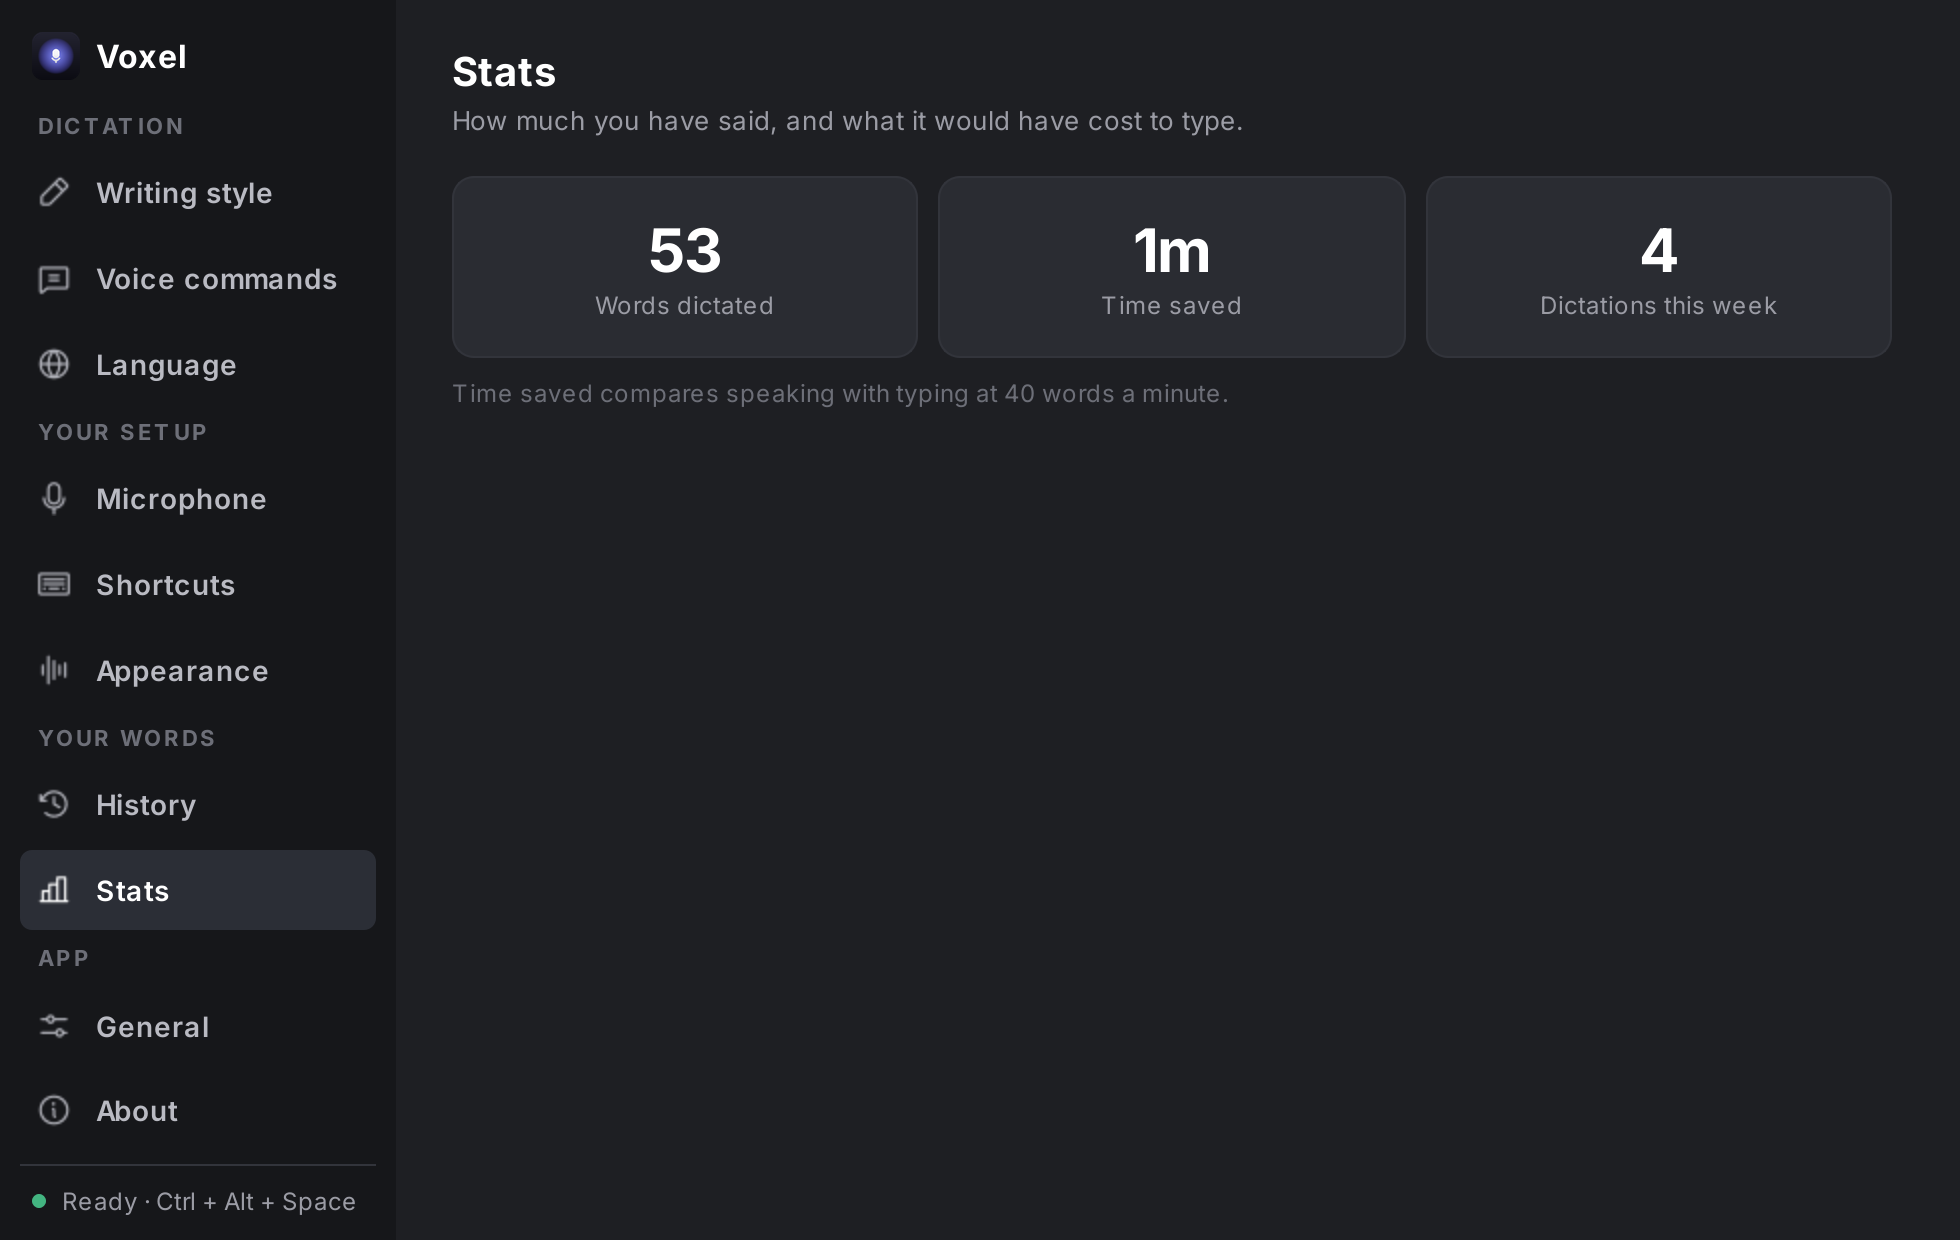
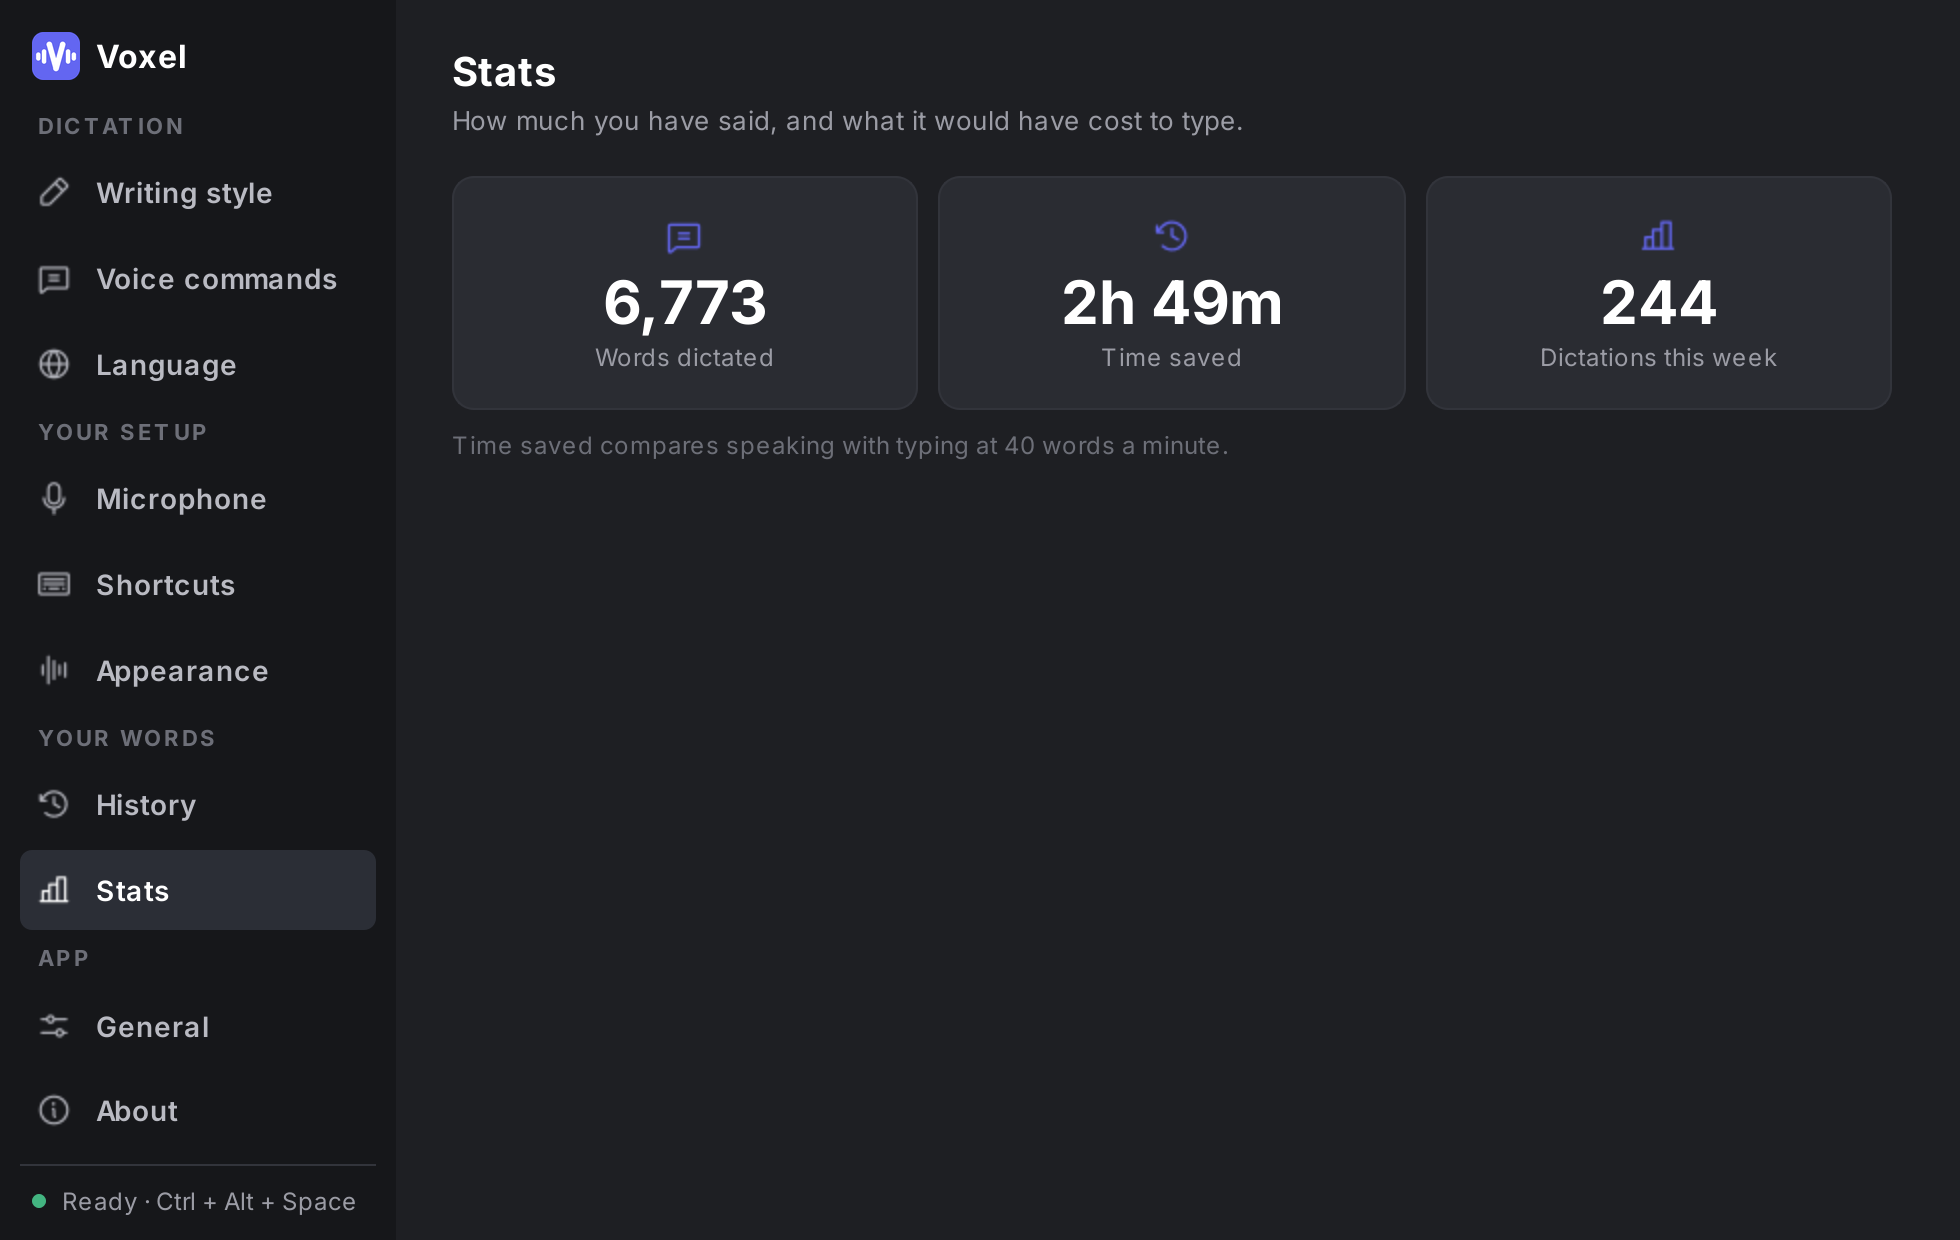
docs: refresh the screenshots and describe the two downloads
The screenshots predate the new icon, the marks on the Stats figures
and the offline copy, and the Stats shot was taken against four history
entries, which made the headline figures look like a bug.

The install section now covers the portable zip beside the installer,
says the program is the folder rather than the file in it, and warns
about SmartScreen - which will fire on both, because neither is signed.

Changed region(s): [[0.249, 0.1839, 0.6536, 0.3677], [0.7781, 0.1839, 0.9026, 0.3065], [0.0, 0.0306, 0.0622, 0.0613]]

diff --git a/README.md b/README.md
@@ -82,7 +82,7 @@ The result: you speak naturally, and clean text appears. **No editing needed.**
 - 🗣 **Voice Commands** - say "sign off" → insert your signature template
 - 📊 **Statistics Dashboard** - track your usage and time saved
 - 🪄 **Auto-switch profile per app** - use "Professional" in Outlook, "Code" in VS Code
-- 💾 **Offline Mode** - use local Whisper model, no internet needed
+- 💾 **Offline Mode** - transcribes on your own machine, nothing leaves it. Included in the download; the first use fetches a model
 
 ### Polish
 - 🎨 **Light and dark themes** that follow your Windows setting
@@ -132,8 +132,18 @@ Groq's free tier has a limit on audio length per request. If you hit it, just **
 
 ### Option 1: Installer
 Download **`Voxel_Setup.exe`** from [📦 Releases](../../releases), run it, done.
+It installs for you alone, so Windows does not ask for an administrator.
 
-### Option 2: From source
+### Option 2: Portable
+Download **`Voxel-portable.zip`**, unzip it anywhere, and run `Voxel.exe`
+from inside the folder. Keep the folder together - the program is the
+folder, not just the .exe in it.
+
+> 🔒 Windows will warn you about both downloads, because they are not
+> code-signed. Click **More info**, then **Run anyway**. Signing costs a few
+> hundred a year and Voxel is free.
+
+### Option 3: From source
 ```bash
 git clone https://github.com/draxctrl/Voxel.git
 cd Voxel
@@ -176,6 +186,8 @@ sections in here instead.
 <img src="docs/screenshots/history.png" alt="History: everything you have dictated, searchable, inside the main window" width="760" />
 <br><br>
 <img src="docs/screenshots/appearance-light.png" alt="The same window in light mode" width="760" />
+<br><br>
+<img src="docs/screenshots/stats.png" alt="Stats: words dictated, time saved, and dictations this week" width="760" />
 </div>
 
 What changed in this release:
@@ -185,6 +197,7 @@ What changed in this release:
 - **Plain-language labels** - "Writing style" rather than "Dictation Mode".
 - **Light and dark**, following your Windows setting, or pinned to one.
 - **Settings apply the moment you change them.** There is no Save button.
+- **Offline transcription is in the download**, instead of needing the source.
 
 ---
 
